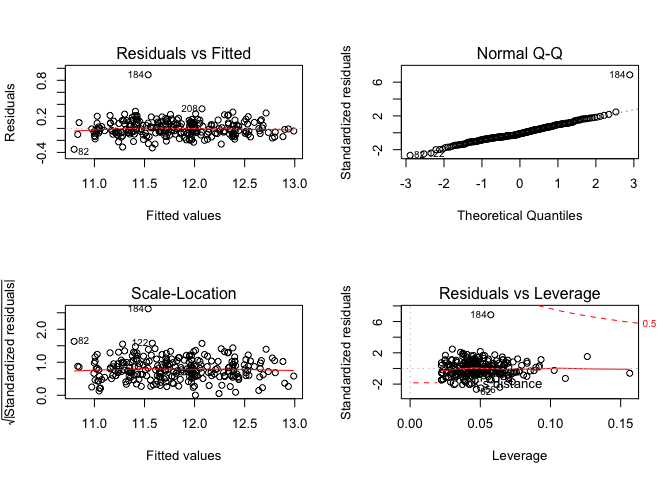
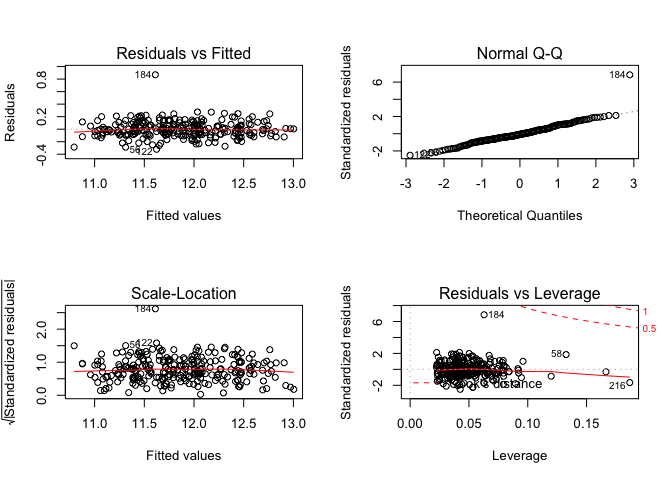
better plot

diff --git a/EDA.md b/EDA.md
@@ -934,6 +934,10 @@ HH::vif(full)
     ## rankassociate      rankfull 
     ##      1.508016      2.225837
 
+``` r
+full <- lm(log_ave_sal ~ gender + dept + clin + cert  + exper + rank, data = law_df) 
+```
+
 Ah. May be… there is no “obvious” discrimination. (coz these confouders
 maybe actually mediators.)
 
@@ -944,19 +948,7 @@ lower_gender <- lm(log_ave_sal ~ gender, data = law_df)
 step(full,scope = list(lower = lower_gender))
 ```
 
-    ## Start:  AIC=-1038.3
-    ## log_ave_sal ~ gender + dept + clin + cert + prate + exper + rank
-    ## 
-    ##         Df Sum of Sq     RSS      AIC
-    ## - prate  1    0.0279  4.4506 -1038.66
-    ## <none>                4.4226 -1038.30
-    ## - clin   1    0.2858  4.7085 -1023.96
-    ## - rank   2    1.2646  5.6872  -976.66
-    ## - cert   1    1.4402  5.8628  -966.73
-    ## - exper  1    1.7384  6.1610  -953.78
-    ## - dept   5    9.1712 13.5938  -755.23
-    ## 
-    ## Step:  AIC=-1038.66
+    ## Start:  AIC=-1038.66
     ## log_ave_sal ~ gender + dept + clin + cert + exper + rank
     ## 
     ##         Df Sum of Sq     RSS      AIC
@@ -1019,6 +1011,7 @@ summary(model_stepwise )
 
 ``` r
 inter1 <- lm(log_ave_sal ~ gender + dept +clin + cert  +  gender*exper + gender*rank,data = law_df) 
+
 summary(inter1 )
 ```
 
@@ -1090,3 +1083,126 @@ summary(inter2)
     ## Residual standard error: 0.1312 on 248 degrees of freedom
     ## Multiple R-squared:  0.9366, Adjusted R-squared:  0.9336 
     ## F-statistic: 305.4 on 12 and 248 DF,  p-value: < 2.2e-16
+
+``` r
+lm(log_ave_sal ~ gender + dept +clin + cert  +  gender*exper + rank,data = law_df) %>% summary()
+```
+
+    ## 
+    ## Call:
+    ## lm(formula = log_ave_sal ~ gender + dept + clin + cert + gender * 
+    ##     exper + rank, data = law_df)
+    ## 
+    ## Residuals:
+    ##      Min       1Q   Median       3Q      Max 
+    ## -0.32130 -0.07860 -0.00987  0.07100  0.86910 
+    ## 
+    ## Coefficients:
+    ##                    Estimate Std. Error t value Pr(>|t|)    
+    ## (Intercept)        11.03226    0.03197 345.034  < 2e-16 ***
+    ## genderFemale       -0.12893    0.03691  -3.493 0.000566 ***
+    ## deptphy            -0.16507    0.02875  -5.741 2.75e-08 ***
+    ## deptgene            0.18977    0.03583   5.297 2.60e-07 ***
+    ## deptpedia           0.21860    0.03534   6.185 2.54e-09 ***
+    ## deptmed             0.54677    0.02905  18.825  < 2e-16 ***
+    ## deptsur             0.93983    0.03491  26.924  < 2e-16 ***
+    ## clinclinical        0.20817    0.02147   9.696  < 2e-16 ***
+    ## certcertified       0.18217    0.02097   8.688 5.09e-16 ***
+    ## exper               0.01605    0.00185   8.672 5.64e-16 ***
+    ## rankassociate       0.11823    0.02365   5.000 1.09e-06 ***
+    ## rankfull            0.20804    0.02611   7.967 5.90e-14 ***
+    ## genderFemale:exper  0.01173    0.00358   3.276 0.001204 ** 
+    ## ---
+    ## Signif. codes:  0 '***' 0.001 '**' 0.01 '*' 0.05 '.' 0.1 ' ' 1
+    ## 
+    ## Residual standard error: 0.1312 on 248 degrees of freedom
+    ## Multiple R-squared:  0.9366, Adjusted R-squared:  0.9336 
+    ## F-statistic: 305.4 on 12 and 248 DF,  p-value: < 2.2e-16
+
+``` r
+lm(log_ave_sal ~ gender + dept +clin + cert  +  gender*exper + rank,data = law_df[-184,]) %>% summary()
+```
+
+    ## 
+    ## Call:
+    ## lm(formula = log_ave_sal ~ gender + dept + clin + cert + gender * 
+    ##     exper + rank, data = law_df[-184, ])
+    ## 
+    ## Residuals:
+    ##      Min       1Q   Median       3Q      Max 
+    ## -0.32984 -0.07244 -0.01281  0.08040  0.28101 
+    ## 
+    ## Coefficients:
+    ##                     Estimate Std. Error t value Pr(>|t|)    
+    ## (Intercept)        10.999190   0.029181 376.926  < 2e-16 ***
+    ## genderFemale       -0.098036   0.033558  -2.921  0.00381 ** 
+    ## deptphy            -0.172456   0.025967  -6.641 1.96e-10 ***
+    ## deptgene            0.183945   0.032339   5.688 3.62e-08 ***
+    ## deptpedia           0.199326   0.031994   6.230 2.00e-09 ***
+    ## deptmed             0.519788   0.026450  19.652  < 2e-16 ***
+    ## deptsur             0.922498   0.031583  29.209  < 2e-16 ***
+    ## clinclinical        0.226087   0.019518  11.584  < 2e-16 ***
+    ## certcertified       0.199022   0.019052  10.446  < 2e-16 ***
+    ## exper               0.016903   0.001673  10.101  < 2e-16 ***
+    ## rankassociate       0.131614   0.021413   6.146 3.16e-09 ***
+    ## rankfull            0.216546   0.023590   9.179  < 2e-16 ***
+    ## genderFemale:exper  0.009676   0.003242   2.984  0.00313 ** 
+    ## ---
+    ## Signif. codes:  0 '***' 0.001 '**' 0.01 '*' 0.05 '.' 0.1 ' ' 1
+    ## 
+    ## Residual standard error: 0.1184 on 247 degrees of freedom
+    ## Multiple R-squared:  0.9483, Adjusted R-squared:  0.9458 
+    ## F-statistic: 377.6 on 12 and 247 DF,  p-value: < 2.2e-16
+
+``` r
+ lm(log_ave_sal ~ gender + dept +clin + cert  +  exper ,data = law_df %>% filter(rank == "assistant")) %>% summary()
+```
+
+    ## 
+    ## Call:
+    ## lm(formula = log_ave_sal ~ gender + dept + clin + cert + exper, 
+    ##     data = law_df %>% filter(rank == "assistant"))
+    ## 
+    ## Residuals:
+    ##      Min       1Q   Median       3Q      Max 
+    ## -0.30995 -0.09230 -0.01370  0.07692  0.78854 
+    ## 
+    ## Coefficients:
+    ##                Estimate Std. Error t value Pr(>|t|)    
+    ## (Intercept)   11.041404   0.067834 162.770  < 2e-16 ***
+    ## genderFemale  -0.082656   0.035347  -2.338 0.021316 *  
+    ## deptphy       -0.201314   0.063379  -3.176 0.001973 ** 
+    ## deptgene       0.143432   0.069186   2.073 0.040681 *  
+    ## deptpedia      0.255421   0.066715   3.829 0.000223 ***
+    ## deptmed        0.600806   0.061033   9.844  < 2e-16 ***
+    ## deptsur        0.943082   0.070044  13.464  < 2e-16 ***
+    ## clinclinical   0.179071   0.042166   4.247 4.80e-05 ***
+    ## certcertified  0.119828   0.040890   2.931 0.004176 ** 
+    ## exper          0.024735   0.005354   4.620 1.12e-05 ***
+    ## ---
+    ## Signif. codes:  0 '***' 0.001 '**' 0.01 '*' 0.05 '.' 0.1 ' ' 1
+    ## 
+    ## Residual standard error: 0.1541 on 102 degrees of freedom
+    ## Multiple R-squared:  0.9126, Adjusted R-squared:  0.9049 
+    ## F-statistic: 118.3 on 9 and 102 DF,  p-value: < 2.2e-16
+
+``` r
+a <- lm(log_ave_sal ~ gender + dept +clin + cert  +  rank ,data = law_df %>% filter(exper %in% c(0:6))) 
+par(mfrow = c(2,2))
+plot(inter2)
+```
+
+![](EDA_files/figure-gfm/unnamed-chunk-9-1.png)<!-- -->
+
+``` r
+summary(law_df$exper)
+```
+
+    ##    Min. 1st Qu.  Median    Mean 3rd Qu.    Max. 
+    ##    1.00    6.00    9.00   10.23   14.00   37.00
+
+``` r
+hist(law_df$exper)
+```
+
+![](EDA_files/figure-gfm/unnamed-chunk-9-2.png)<!-- -->
